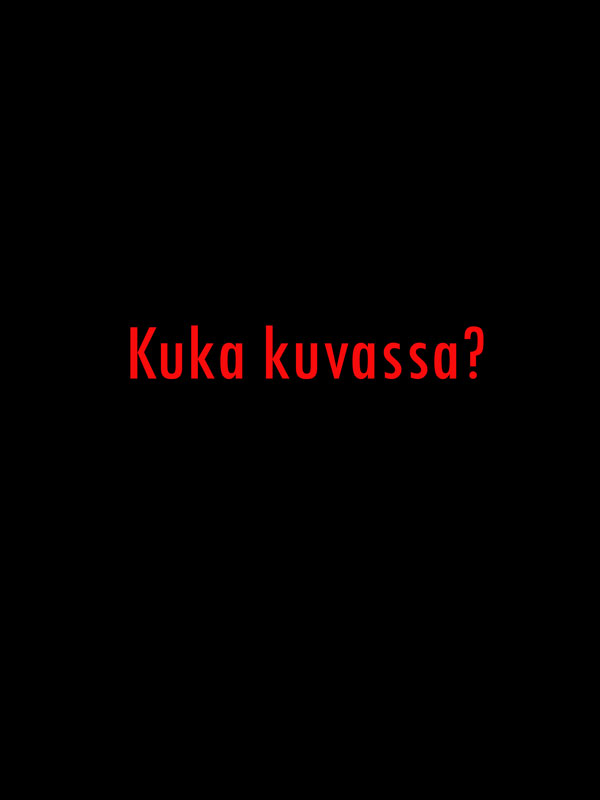
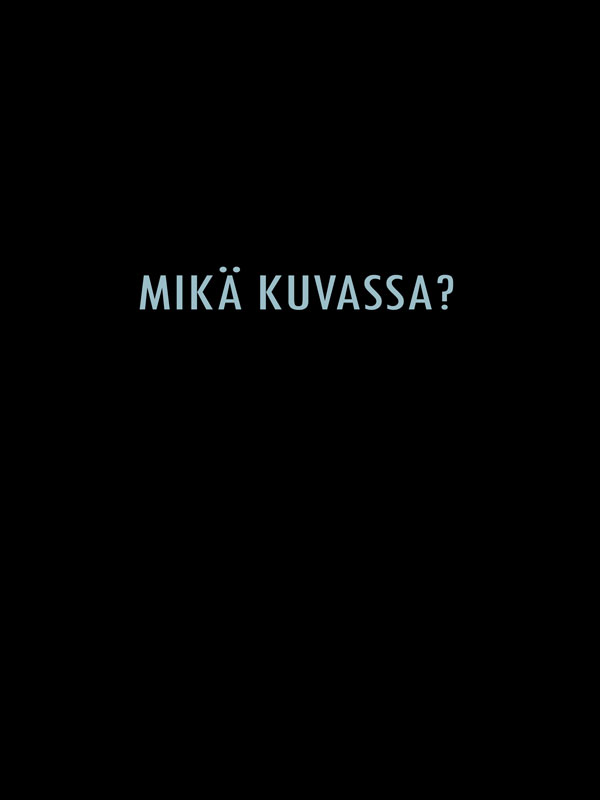
Koodit muokattu loppuun ja kommentoitu

Changed region(s): [[0.21, 0.3125, 0.81, 0.5]]

diff --git a/main.js b/main.js
@@ -1,34 +1,38 @@
+// Tapahtumankäsittelijät
 document.getElementById('klik').addEventListener('submit', lisaaKlikkaus);
 document.getElementById('tok').addEventListener('submit', lisaaTokkays);
 document.getElementById('nollaus').addEventListener('submit', nollaaKaikki);
 document.getElementById('aloita').addEventListener('submit', start);
 
-
-//document.getElementById('kuva').addEventListener('submit', piirraKuva);
+// Ajanottofunktio
 function start(event) {
     event.preventDefault()
     var timeleft = 10;
         var downloadTimer = setInterval(function(){
         timeleft--;
-        document.getElementById("time").textContent = timeleft == 0 ? 'Aika loppui' : timeleft+' sekuntia';
+        document.getElementById("time").textContent = timeleft == 0 ? 'Aika loppui!' : timeleft+' sekuntia';
         if(timeleft === 0)
             clearInterval(downloadTimer);
             nollaaKaikki();
         },1000);
 }
 
+// Määritellään klikkaukset
 let clicks = 0;
 let tocks = 0;
 
+// Klikkauksen funktio
 function lisaaKlikkaus(event) {
-    //console.log('klikkasit');
     event.preventDefault()
     clicks ++;
     document.getElementById("klikkaukset").innerHTML = "Klikkausten määrä: " + clicks;
+    if(clicks > 5 ) {
+        piirraKuva0();
+    }
 }
 
+// Tökkäyksen funktio
 function lisaaTokkays(event) {
-    //console.log('klikkasit');
     event.preventDefault()
     tocks ++;
     document.getElementById("tokkaykset").innerHTML = "Tökkäysten määrä: " + tocks;
@@ -44,41 +48,41 @@ function lisaaTokkays(event) {
     }
     }
 
-
-
+// Nollausfunktio
 function nollaaKaikki(event) {
-    //console.log('klikkasit');
     event.preventDefault()
     tocks = 0;
     clicks = 0;
     const kuva = document.getElementById('kuva');
     kuva.src = "img/pic.jpg";
-
-
     document.getElementById("klikkaukset").innerHTML = "Klikkausten määrä: " + clicks;
     document.getElementById("tokkaykset").innerHTML = "Tökkäysten määrä: " + tocks;
 }
 
+// Funktiot kuvien hahmottumiselle
+function piirraKuva0() {
+    const kuva = document.getElementById('kuva');
+    tocks = 0;
+    document.getElementById("tokkaykset").innerHTML = "Tökkäysten määrä: " + tocks;
+    kuva.src = "img/pic.jpg";
+}
+
 function piirraKuva() {
-    console.log("yli rajapyykin")
     const kuva = document.getElementById('kuva');
     kuva.src = "img/pic1.jpg";
 }
 
 function piirraKuva2() {
-    console.log("yli rajapyykin")
     const kuva = document.getElementById('kuva');
     kuva.src = "img/pic2.jpg";
 }
 
 function piirraKuva3() {
-    console.log("yli rajapyykin")
     const kuva = document.getElementById('kuva');
     kuva.src = "img/pic3.jpg";
 }
 
 function piirraKuva4() {
-    console.log("yli rajapyykin")
     const kuva = document.getElementById('kuva');
     kuva.src = "img/pic4.jpg";
 }

diff --git a/tyylit.css b/tyylit.css
@@ -1,28 +1,41 @@
+@import url('https://fonts.googleapis.com/css2?family=Afacad&display=swap');
 body {
-    font-family:'Gill Sans', 'Gill Sans MT', Calibri, 'Trebuchet MS', sans-serif;
-    max-width: 800px;
-    margin-left: auto;
+    font-family: 'Afacad', sans-serif;
+    letter-spacing: 1px;
+    background-color:#164863;  
 }
 * {
   box-sizing: border-box; 
 }
 
+.row {
+    padding: 1em;
+    background: #DDF2FD;
+    margin: 2rem auto 0 auto;
+    max-width: 800px;
+    padding: 1em;
+}
 .header {
-    background-color: #f1f1f1;
+    background-color:#9BBEC8;
     padding: 20px;
     text-align: center;
+
 }
 .column {
     float: left;
     padding: 10px;
 }
-    
-    /* Left and right column */
+
 .column.side {
     width: 25%;
-    }
+    padding-bottom: 10px;
+}
+
+div#time {
+    font-weight: bold;
+    font-size: 1.5rem;
+}
     
-    /* Middle column */
 .column.middle {
     width: 50%;
     text-align: center;
@@ -33,37 +46,41 @@ body {
     display: table;
     clear: both;
     }
+#btnclock {
+    background-color: #DDF2FD;
+    padding: 15px 32px;
+    color: black;
+    border: 1px solid #555555;
+    width: 100%
+    font-family: 'Afacad';
+    font-size: large ;
+    }
 
-#tok, #klik {
-    color: rgb(255, 255, 255); 
-    font-size: 14px; 
-    line-height: 14px; 
-    padding: 8px; 
-    border-radius: 8px; 
-    font-family: Georgia, serif; 
-    font-weight: normal; 
-    text-decoration: none; 
-    font-style: normal; 
-    font-variant: normal; 
-    text-transform: none; 
-    background-image: linear-gradient(to right, rgb(28, 110, 164) 0%, rgb(35, 136, 203) 50%, rgb(20, 78, 117) 100%); 
-    box-shadow: rgb(0, 0, 0) 5px 5px 15px 5px; 
-    border: 2px solid rgb(28, 110, 164); 
-    display: inline-block;}
-    .myButton:hover {
-    background: #1C6EA4; }
-    .myButton:active {
-    background: #144E75; }
+#btnclock:hover {
+    background-color: #164863;
+    color: #DDF2FD;
+    }
+#btn {
+        background-color: #164863;
+        padding: 15px 32px;
+        color: rgb(243, 240, 240);
+        border: 1px solid black;
+        size: 20px;
+        font-family: 'Afacad';
+        font-size: large ;
+      }
+      
+#btn:hover {
+        background-color: #9BBEC8;
+        color: white;
+      }
 img {
-    width: 50%;
+    width: 80%;
 }
 
-
-
-/* for smaller screens (eg: phones) */
 @media (max-width: 800px) { 
     .item {
-      flex: 100%; /* makes one item on each line */
+      flex: 100%; 
     }
     .column.side, .column.middle {
         width: 100%;

diff --git a/index.html b/index.html
@@ -7,44 +7,48 @@
     <title>Clicker-peli</title>
 </head>
 <body>
+    <!--OTSIKKO-->
     <div class="header">
         <h1>Clicker-peli</h1>
-        <p>Klikkaa kuva-arvoitus esiin</p>
-      </div>
+        <p><h3>Klikkauksilla kuva esiin?</h3></p>
+    </div>
     
-      <div class="row">
+    <!-- PELIALUE -->
+    <div class="row">
+        <!--VASEN SIVU-->
         <div class="column side">
-          <h2>Kokeile kellon kanssa tai ilman</h2>
+          <h2>Kokeile kellon kanssa!</h2>
           <p>Kokeile kilpajuoksua 10 sekunnin ajan.</p>
         <form  id="aloita">
-        <button>Käynnistä kello</button>
+        <button id="btnclock">Käynnistä kello</button>
         </form>
-        <span id="timer">
-          <span id="time">10 sekuntia</span>    
-        </span>
-      </div>
+        <br>
+        <div id="time">10 sekuntia</div>     
+        </div>
 
-    <div class="column middle">
-        <h2>Ehditkö klikkailla kuvan esiin?</h2>
-    <img id="kuva" src="img/pic.jpg">
-    </div>
-    
-    <div class="column side">
-        <h2>Kumpi on kannattavampi nappi?</h2>
-    <form  id="klik">
-    <button>Klikkaa tätä</button>
-    </form>
-    <form  id="tok">
-    <button>Tökkää tätä</button>
-    </form>
-    
-    <p id="klikkaukset">Klikkausten määrä:</p>
-    <p id="tokkaykset">Tökkäysten määrä:</p>
-    <form  id="nollaus">
-        <button>Nollaa kaikki</button>
+        <!-- KESKIALUE-->
+        <div class="column middle">
+            <h2></h2>
+        <img id="kuva" src="img/pic.jpg">
+        </div>
+        
+        <!-- OIKEA SIVU-->
+        <div class="column side">
+            <h2>Kumpi on kannattavampi nappi?</h2>
+        <form  id="klik">
+        <button id="btn">Klikkaa tätä</button>
         </form>
-    </div>
-      </div>
+        <form  id="tok">
+        <button id="btn">Tökkää tätä</button>
+        </form>
+        
+        <p id="klikkaukset">Klikkausten määrä:</p>
+        <p id="tokkaykset">Tökkäysten määrä:</p>
+        <form  id="nollaus">
+            <button id="btn">Nollaa kaikki</button>
+            </form>
+        </div>
+        </div>
 </body>
 <script src="main.js"></script>
 
